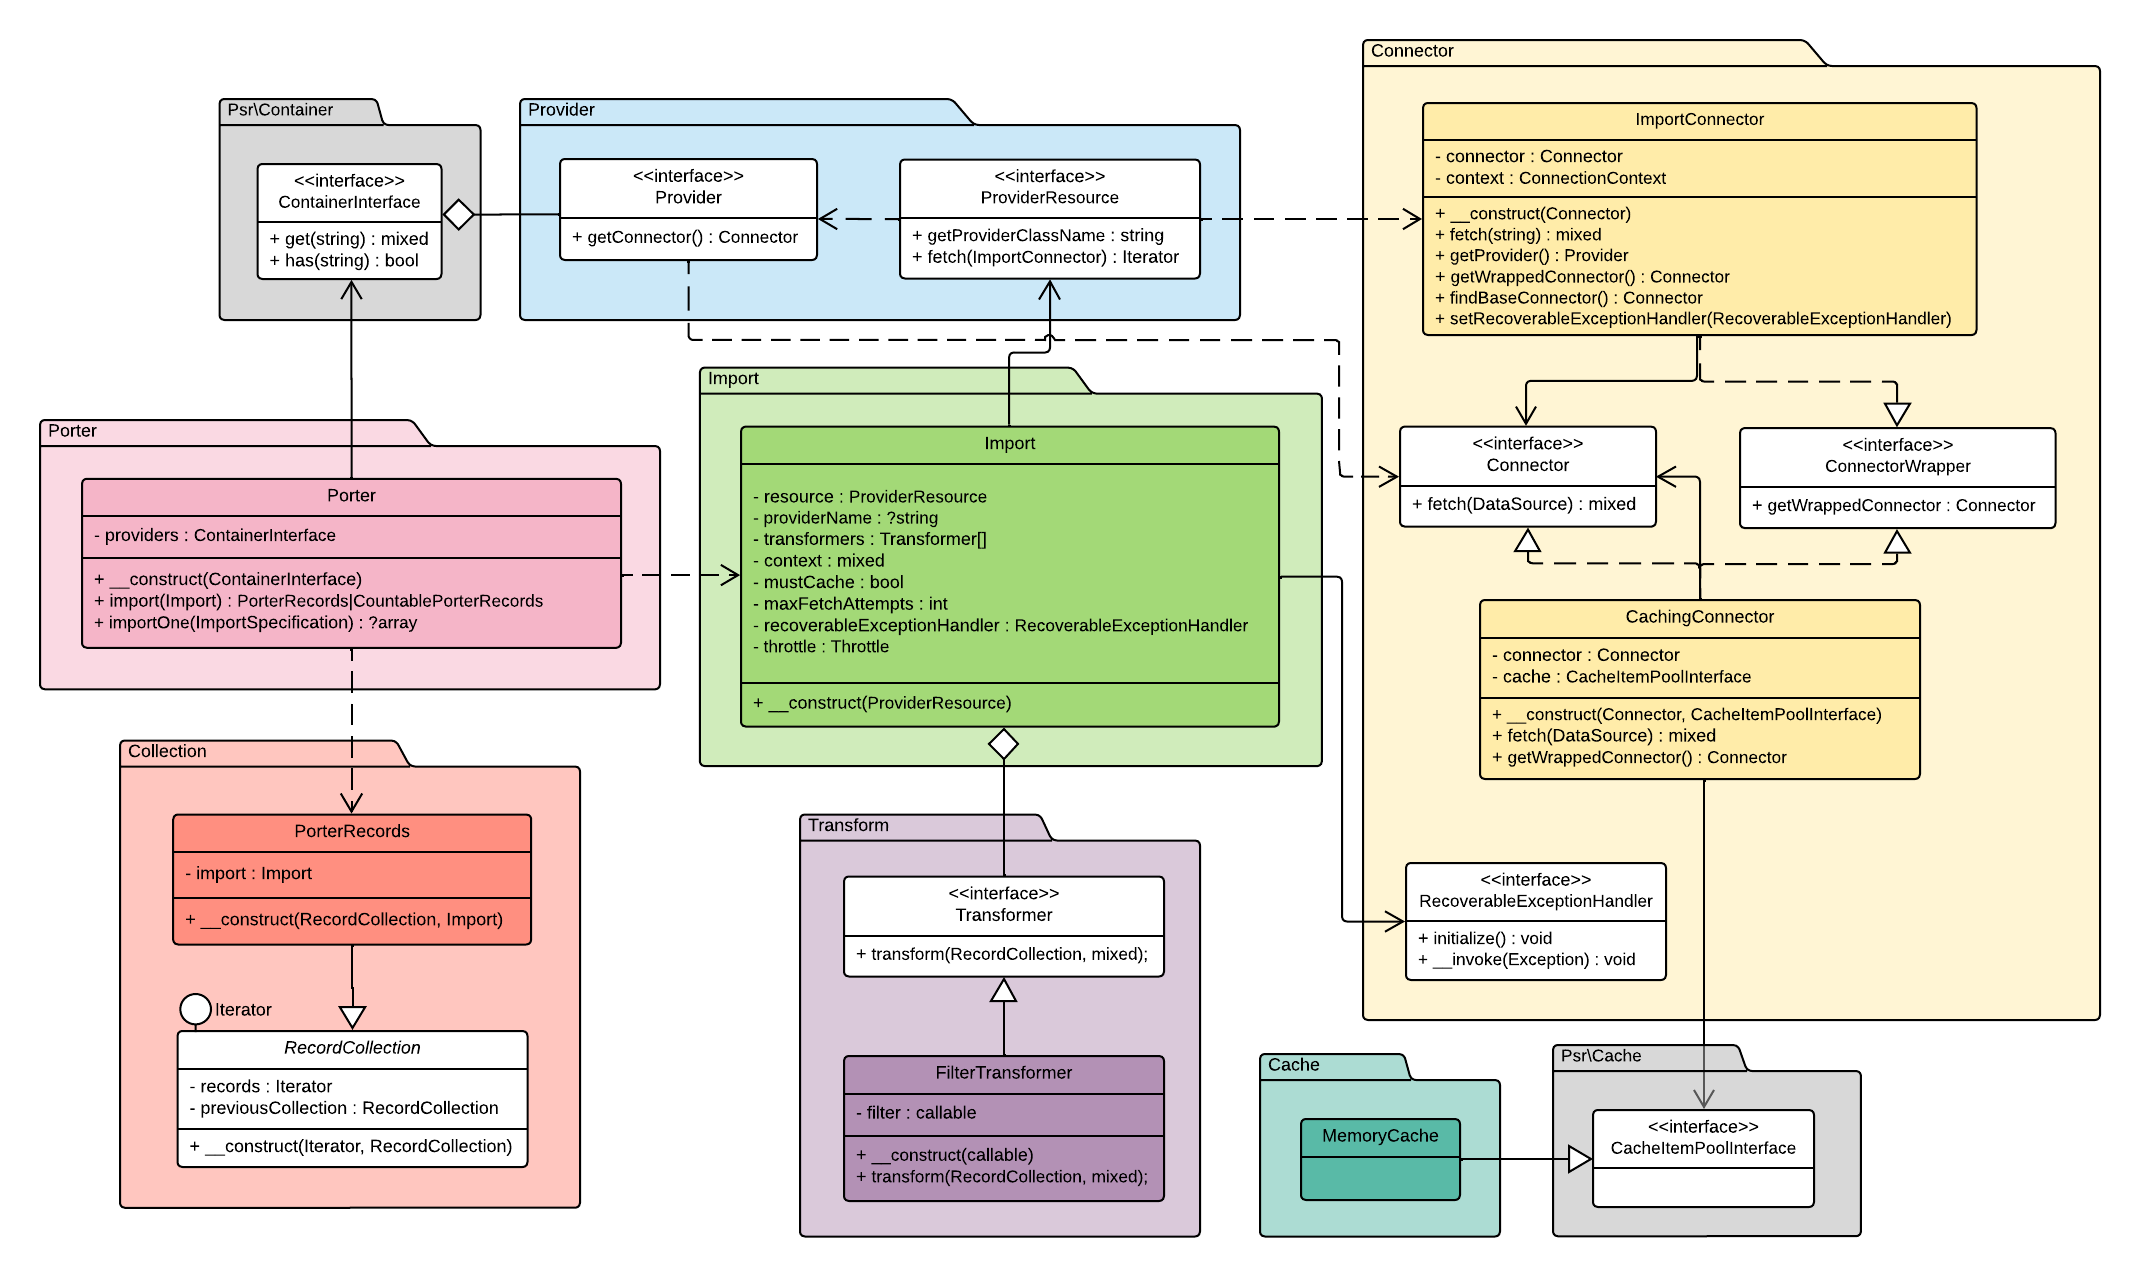
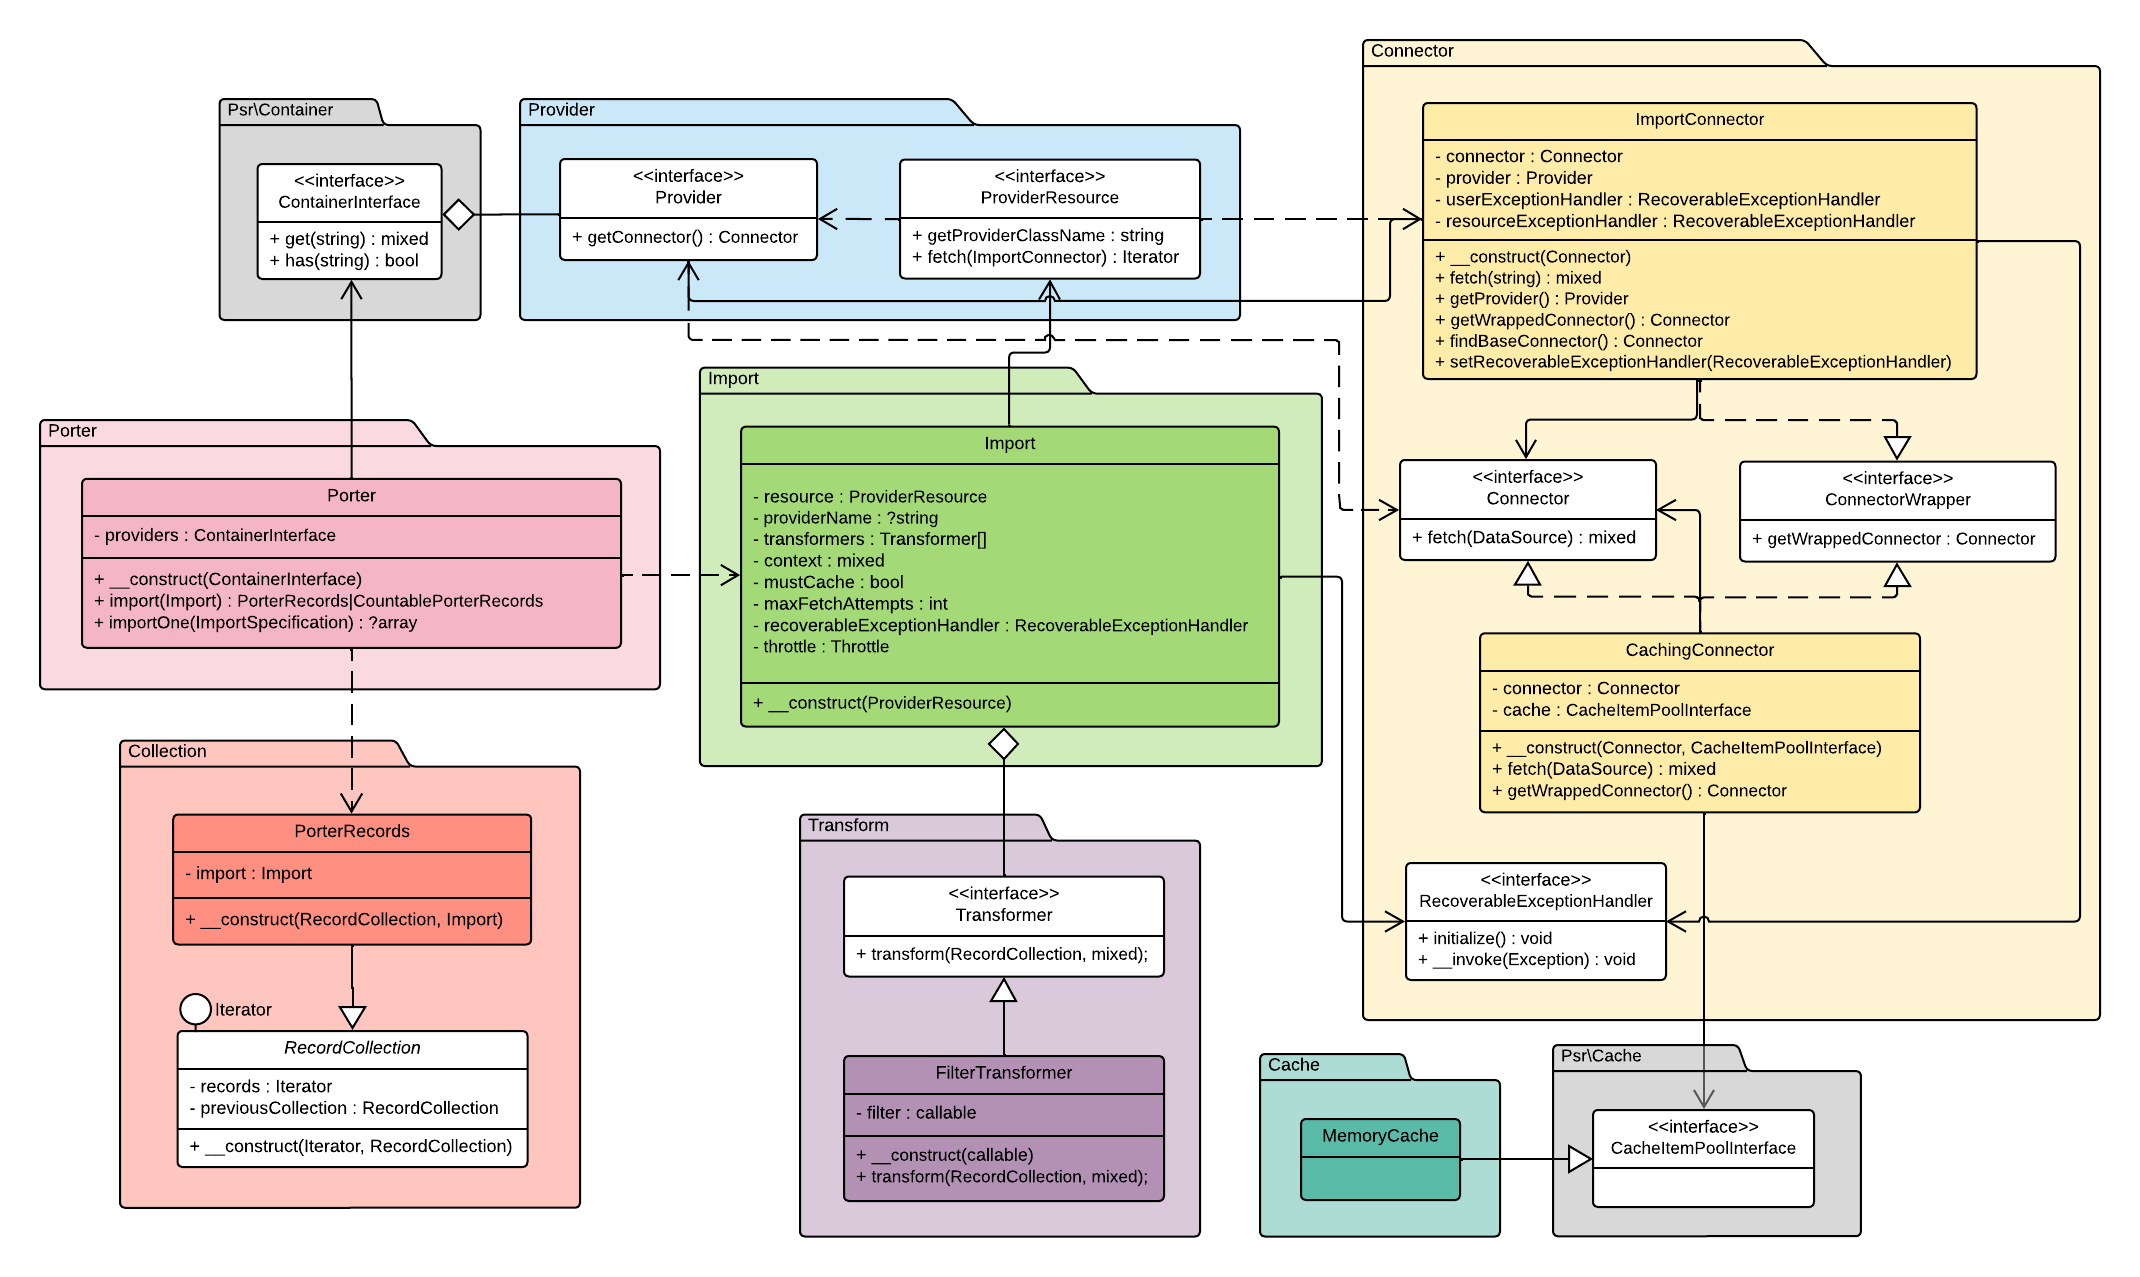
Updated Changelog for v6-7. Updated ImportConnector in UML class diagram. Updated Readme (minor).

Changed region(s): [[0.6477, 0.1222, 0.9869, 0.6413]]

diff --git a/README.md b/README.md
@@ -172,7 +172,7 @@ Asynchronous
 
 Porter has had asynchronous support since version 5 (2019) thanks to [Amp][] integration. In v5, async was implemented with coroutines, but from version 6 onwards, Porter uses the simpler [fibers][] model. Fiber support is included in PHP 8.1 and can be added to PHP 8.0 using [ext-fiber][]. PHP 7 does not support fibers, so if you are stuck with that version of PHP, coroutines are the only option. It is strongly recommended to upgrade to PHP 8.1 to use async, to avoid unnecessary bugs leading to segfaults and to avoid getting trapped in the coroutine architecture that is cumbersome to upgrade, difficult to debug and harder to reason about.
 
-In version 5, Porter offered a dual API to support the asynchronous code path. That is, `Porter::import` had the async analogue: `Porter::importAsync` and `Porter::importOne` had the async analogue: `Porter::importOneAsync`. In version 6 we switched to fibers but kept the dual API to making migrating from coroutines to fibers slightly easier. Since version 7, we unified the dual API because async with fibers can be almost entirely transparent: the synchronous and asynchronous code paths are identical, so we don't even have to think about async unless and until we want to start leveraging its benefits in our application.
+In version 5, Porter offered a dual API to support the asynchronous code path. That is, `Porter::import` had the async analogue: `Porter::importAsync` and `Porter::importOne` had `Porter::importOneAsync`. In version 6 we switched to fibers but kept the dual API to making migrating from coroutines to fibers slightly easier. Since version 7, we unified the dual API because async with fibers can be almost entirely transparent: the synchronous and asynchronous code paths are identical, so we don't even have to think about async unless and until we want to start leveraging its benefits in our application.
 
 To use async in Porter v7 onwards, simply wrap an `import()` or `importOne()` call in an `async()` call using one of the following two methods.
 

diff --git a/CHANGELOG.md b/CHANGELOG.md
@@ -1,5 +1,28 @@
 # Porter change log
 
+## 7.0.0 – Unified API
+
+Unifies the synchronous and asynchronous APIs, so they are one and the same.
+
+### Breaking changes
+
+* Removed all async-specific code paths, including `Porter::fetchAsync()` and `Porter::fetchOneAsync()`.
+* Renamed `ImportSpecification` -> `Import`.
+* Renamed `StaticDataSpecification` -> `StaticImport`.
+* Changed `Porter`, `MemoryCache` and all outstanding exceptions' inheritance accessibility to `final`.
+
+## 6.0.0 – Fibers
+
+Replaces coroutines with fibers as the new async technology.
+
+### Breaking changes
+
+* Removed support for PHP less than 8.1.
+* Removed support for Amp v2 in lieu of Amp v3 (beta).
+* All methods returning `Amp\Promise` were changed to their underlying type.
+* Added union types and `mixed` where appropriate, e.g. `Connector|AsyncConnector`.
+* Changed `PorterRecords` semantics to always run generators to the first suspension point.
+
 ## 5.0.0 – Async
 
 Porter v5 introduces asynchronous imports and complete strict type safety (excluding union types and generics).
